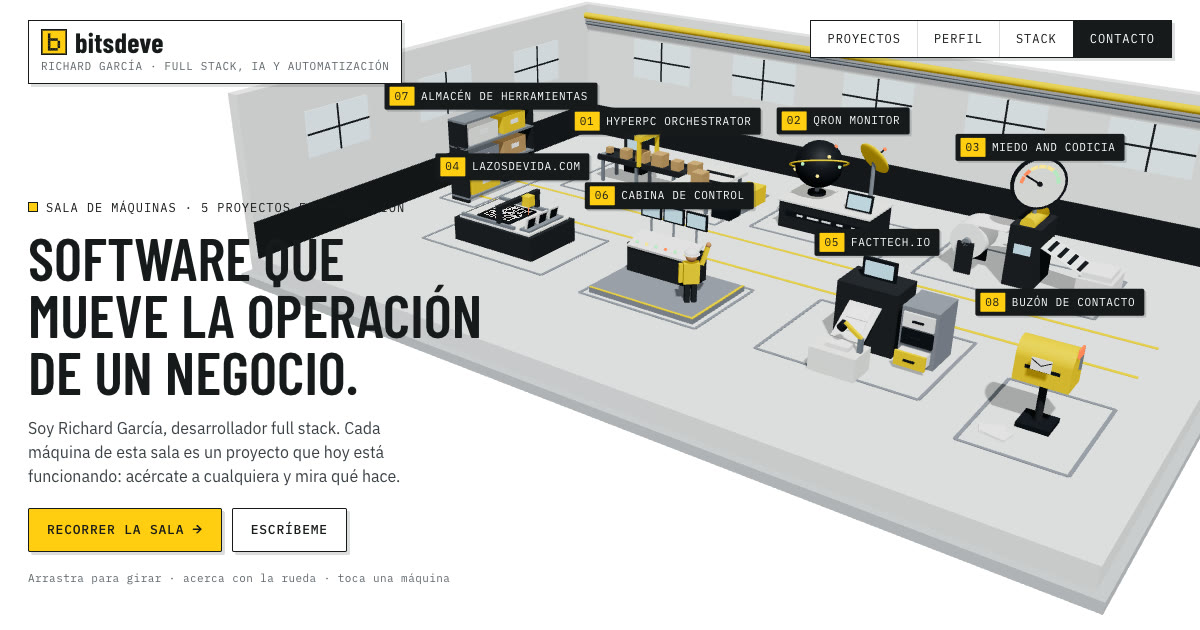
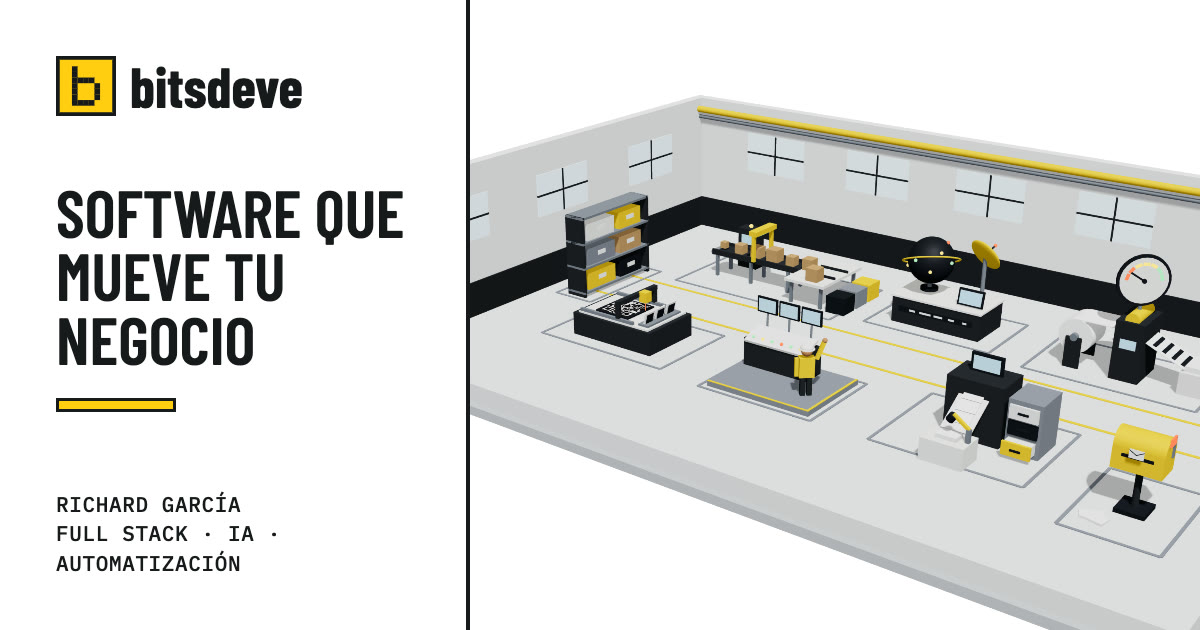
fix: etiquetas del stack apretadas y vista previa con texto encimado
- En la ficha de stack, "Infraestructura" y "Automatización" no cabían
  en la columna de 92 px y quedaban pegadas a la lista. Ahora cada
  etiqueta va arriba de su lista.
- La imagen para compartir era una captura del sitio a 1200 px, donde
  el titular cae sobre la sala. Se reemplaza por una imagen compuesta:
  marca y titular a la izquierda, la sala sin etiquetas a la derecha.

diff --git a/src/factory/factory.css b/src/factory/factory.css
@@ -264,6 +264,10 @@
   text-transform: uppercase;
   color: var(--muted);
 }
+/* Etiquetas largas (Infraestructura, Automatización): van arriba de su lista, no al lado. */
+.ficha-fields.is-stacked .ficha-field { grid-template-columns: 1fr; gap: 6px; padding: 14px 0; }
+.ficha-fields.is-stacked .ficha-field dt { padding-top: 0; color: var(--ink); font-weight: 500; }
+.ficha-field dt { overflow-wrap: anywhere; }
 .ficha-field a { text-decoration: underline; text-underline-offset: 3px; }
 .ficha-field a:hover { color: var(--ink); }
 .ficha-list li { position: relative; padding-left: 14px; }

diff --git a/src/factory/Hud.tsx b/src/factory/Hud.tsx
@@ -92,7 +92,7 @@ function StackBody() {
     return (
         <>
             <p className="ficha-lead">Las herramientas con las que trabajo, ordenadas por área.</p>
-            <dl className="ficha-fields">
+            <dl className="ficha-fields is-stacked">
                 {stackGroups.map((g) => (
                     <Field key={g.name} label={g.name}>
                         <ul className="ficha-list">
